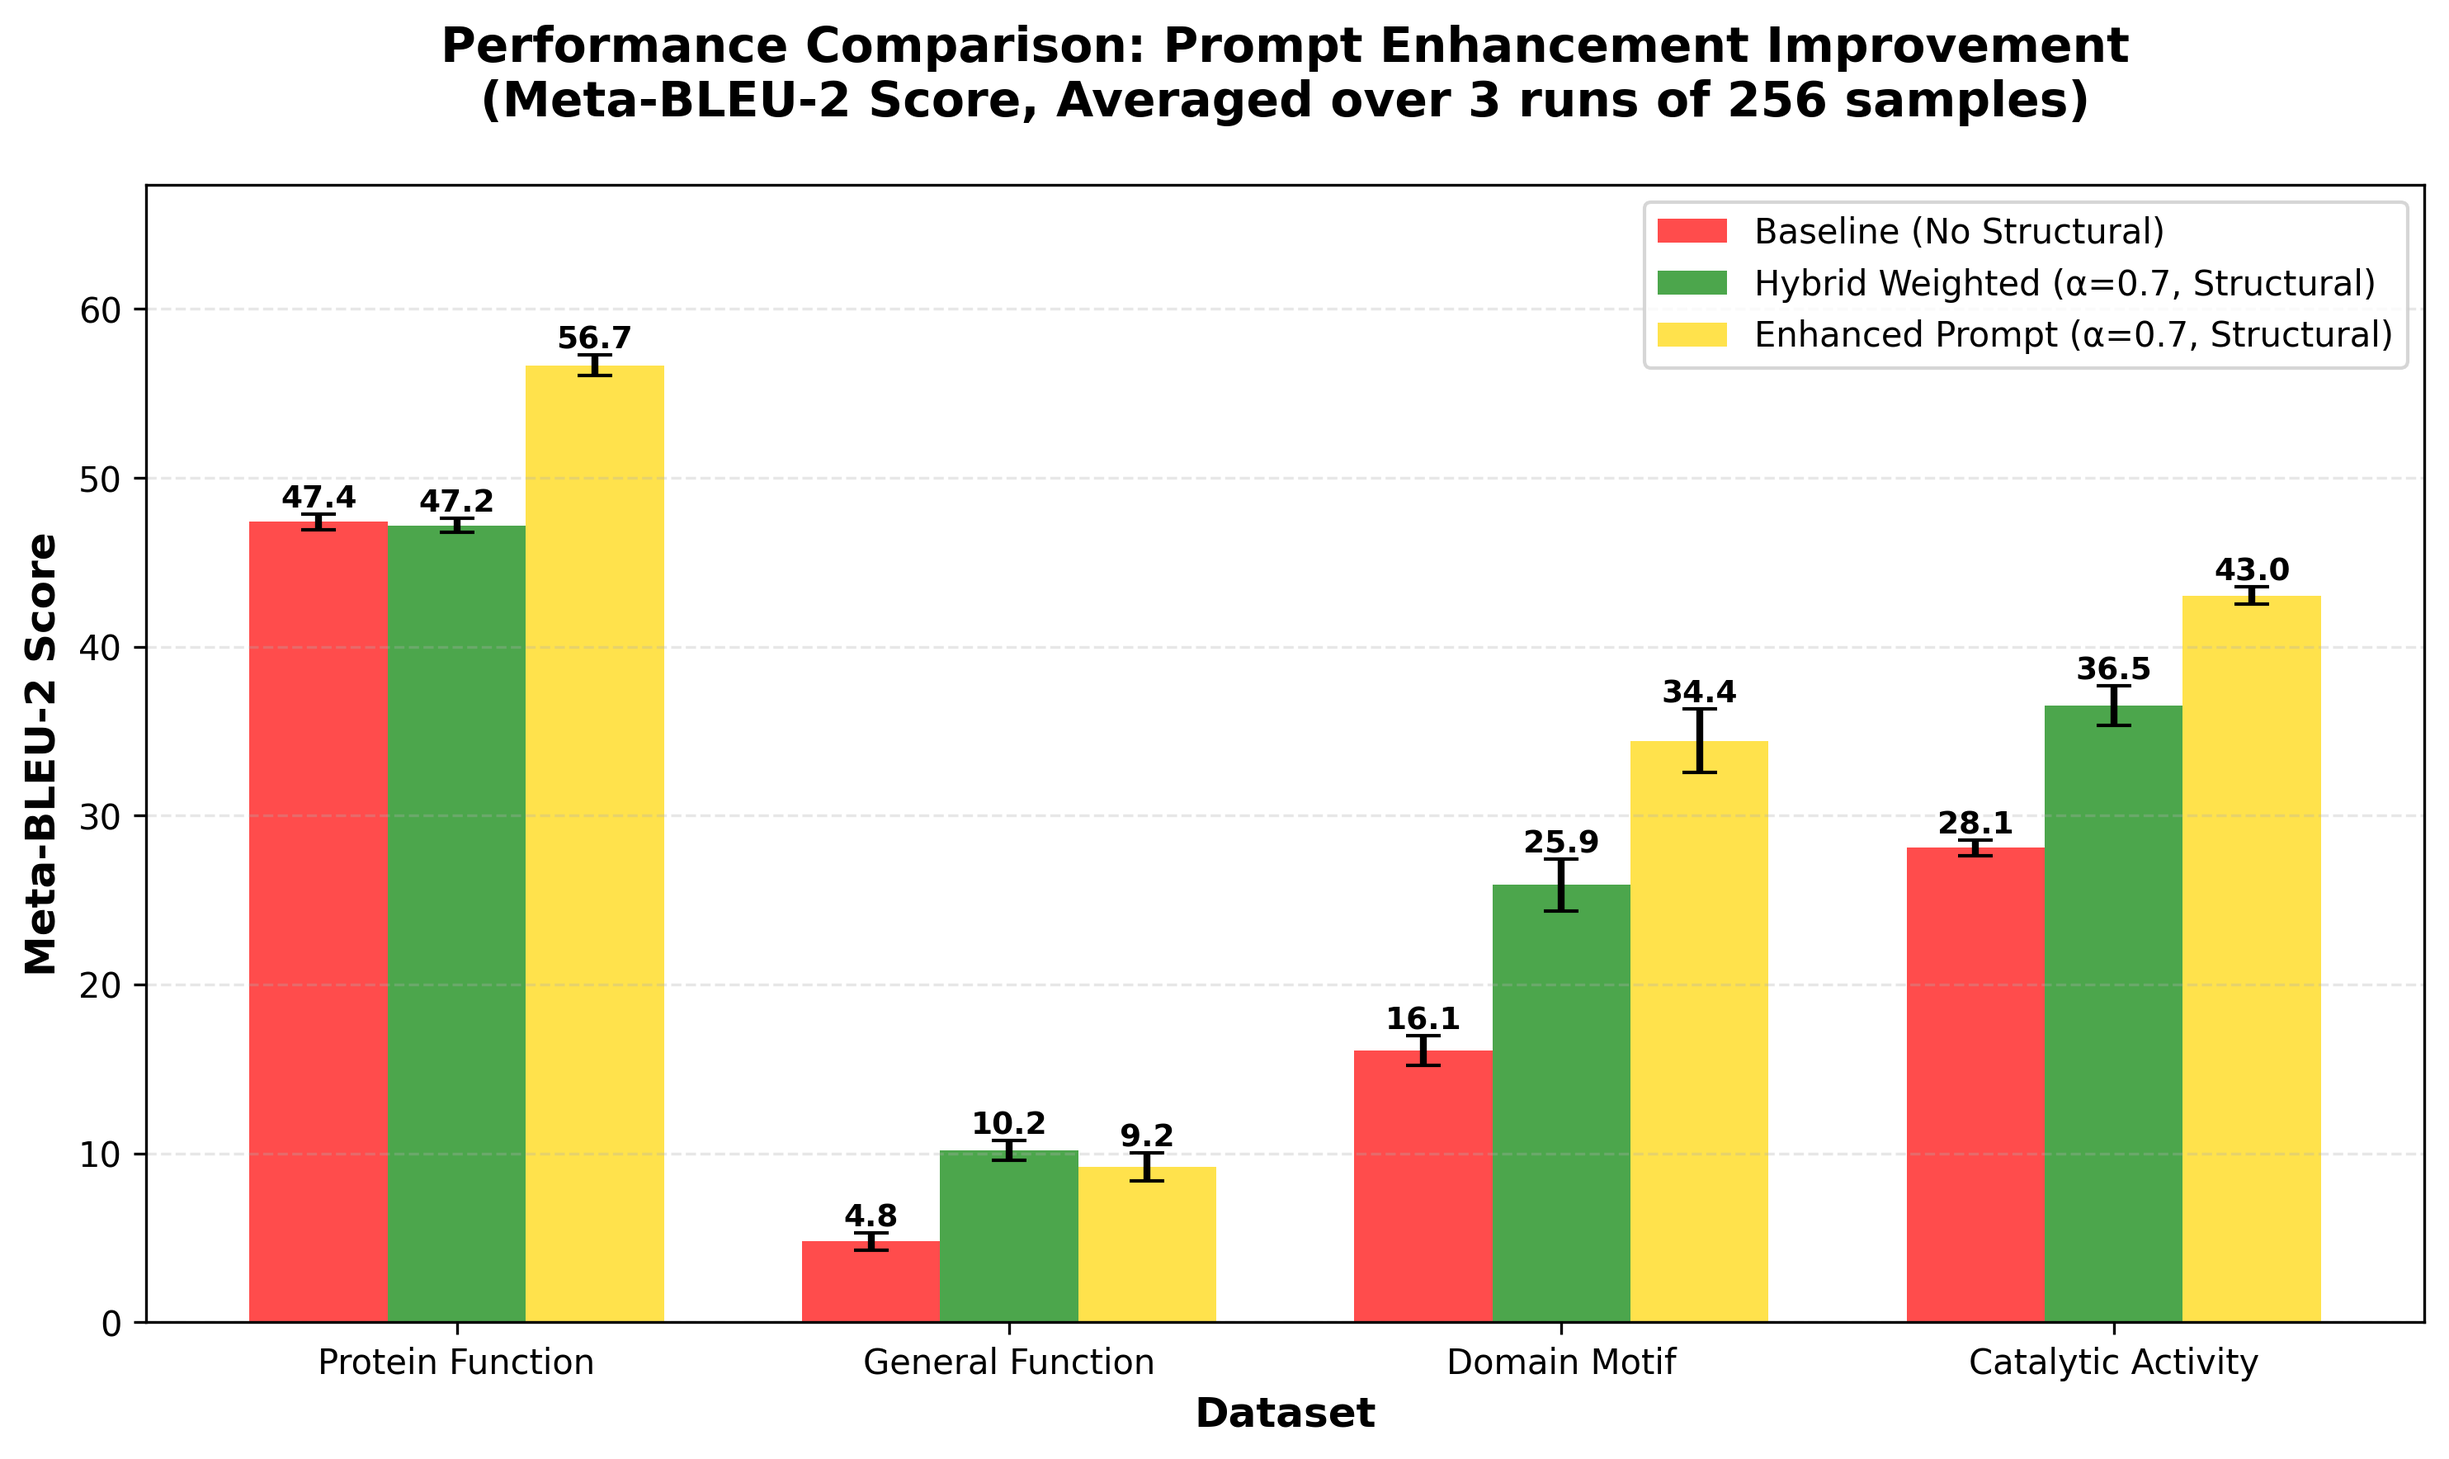
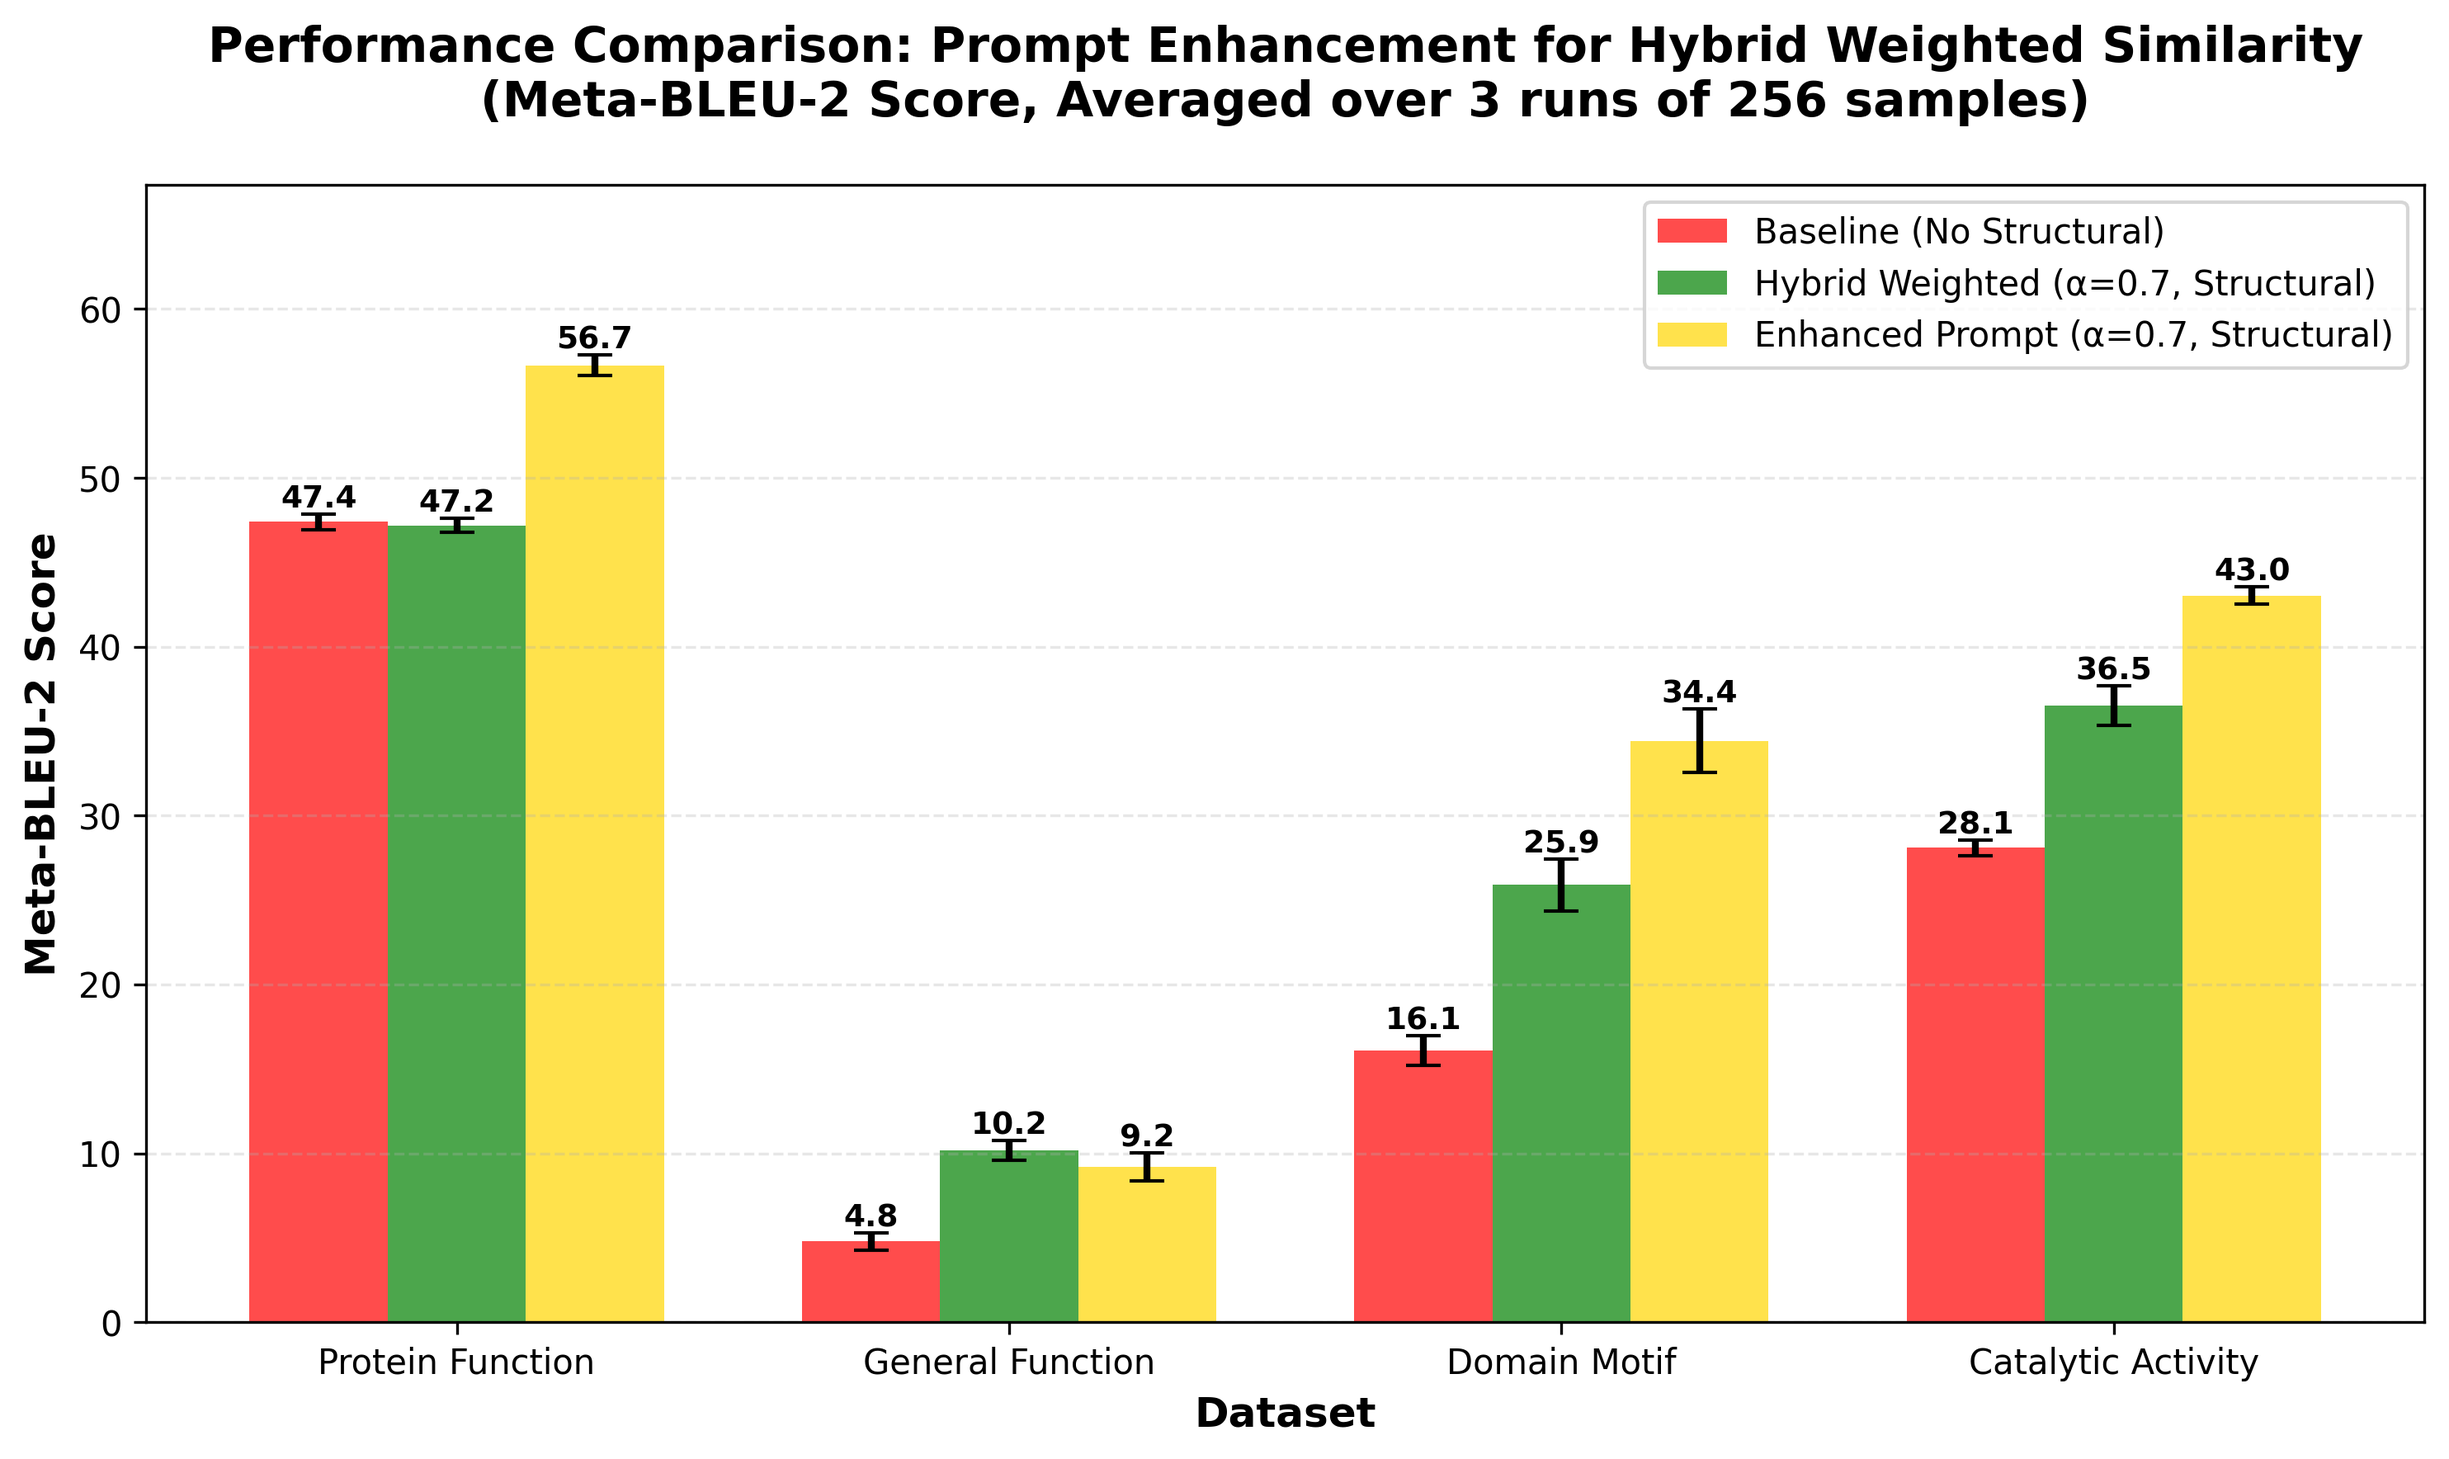
Final Commit

Changed region(s): [[0.093, 0.0, 0.9609, 0.0622]]

diff --git a/structural_retrieval/visualizations/prompt_rrf_comparison.py b/structural_retrieval/visualizations/prompt_rrf_comparison.py
@@ -6,8 +6,8 @@ domain_motif_OOD, catalytic_activity_OOD).
 
 Compares three methods:
 1. Baseline (no structural embeddings) - RED
-2. Hybrid Weighted Similarity (alpha=0.7, with structural embeddings) - GREEN
-3. Enhanced Prompt (alpha=0.7, with structural embeddings) - YELLOW
+2. Hybrid RRF (alpha=0.7, with structural embeddings) - BLUE 
+3. Enhanced RRF (alpha=0.7, with structural embeddings) - PURPLE
 
 Results are averaged over 3 independent runs of 256 samples each.
 """
@@ -120,10 +120,10 @@ def create_comparison_plot(baseline_results, hybrid_weighted_results, enhanced_p
         'catalytic_activity_OOD': 'Catalytic Activity'
     }
 
-    # Standard colors: red, green, yellow
+    # Standard colors: red, blue, purple
     color_baseline = 'red'
-    color_weighted = 'green'
-    color_enhanced = 'gold'
+    color_weighted = 'blue'
+    color_enhanced = 'purple'
 
     # Extract means and standard deviations
     baseline_means = [np.mean(baseline_results[task][metric]) for task in tasks]
@@ -144,11 +144,11 @@ def create_comparison_plot(baseline_results, hybrid_weighted_results, enhanced_p
     bars1 = ax.bar(x - width, baseline_means, width, label='Baseline (No Structural)',
                    color=color_baseline, alpha=0.7, yerr=baseline_stds,
                    capsize=5, error_kw={'linewidth': 2, 'elinewidth': 2})
-    bars2 = ax.bar(x, weighted_means, width, label='Hybrid Weighted (α=0.7, Structural)',
+    bars2 = ax.bar(x, weighted_means, width, label='Hybrid RRF (k=60, Structural)',
                    color=color_weighted, alpha=0.7, yerr=weighted_stds,
                    capsize=5, error_kw={'linewidth': 2, 'elinewidth': 2})
     bars3 = ax.bar(x + width, enhanced_means, width,
-                   label='Enhanced Prompt (α=0.7, Structural)',
+                   label='Enhanced RRF (k=60, Structural)',
                    color=color_enhanced, alpha=0.7, yerr=enhanced_stds,
                    capsize=5, error_kw={'linewidth': 2, 'elinewidth': 2})
 
@@ -167,7 +167,7 @@ def create_comparison_plot(baseline_results, hybrid_weighted_results, enhanced_p
     # Customize plot
     ax.set_xlabel('Dataset', fontsize=12, fontweight='bold')
     ax.set_ylabel(f'{metric} Score', fontsize=12, fontweight='bold')
-    ax.set_title(f'Performance Comparison: Prompt Enhancement for Hybrid Weighted Similarity\n({metric} Score, Averaged over 3 runs of 256 samples)',
+    ax.set_title(f'Performance Comparison: Prompt Enhancement Improvement for Hybrid RRF\n({metric} Score, Averaged over 3 runs of 256 samples)',
                  fontsize=14, fontweight='bold', pad=20)
     ax.set_xticks(x)
     ax.set_xticklabels([task_labels[t] for t in tasks])
@@ -203,8 +203,8 @@ def create_multi_metric_comparison(baseline_results, hybrid_weighted_results, en
 
     # Standard colors
     color_baseline = 'red'
-    color_weighted = 'green'
-    color_enhanced = 'gold'
+    color_weighted = 'blue'
+    color_enhanced = 'purple'
 
     fig, axes = plt.subplots(1, len(metrics), figsize=(16, 5))
 
@@ -227,11 +227,11 @@ def create_multi_metric_comparison(baseline_results, hybrid_weighted_results, en
         bars1 = ax.bar(x - width, baseline_means, width, label='Baseline',
                       color=color_baseline, alpha=0.7, yerr=baseline_stds,
                       capsize=4, error_kw={'linewidth': 1.5, 'elinewidth': 1.5})
-        bars2 = ax.bar(x, weighted_means, width, label='Hybrid Weighted',
+        bars2 = ax.bar(x, weighted_means, width, label='Hybrid RRF',
                       color=color_weighted, alpha=0.7, yerr=weighted_stds,
                       capsize=4, error_kw={'linewidth': 1.5, 'elinewidth': 1.5})
         bars3 = ax.bar(x + width, enhanced_means, width,
-                      label='Enhanced Prompt', color=color_enhanced, alpha=0.7,
+                      label='Enhanced RRF', color=color_enhanced, alpha=0.7,
                       yerr=enhanced_stds,
                       capsize=4, error_kw={'linewidth': 1.5, 'elinewidth': 1.5})
 
@@ -319,8 +319,8 @@ def main():
     project_root = Path(__file__).parent.parent.parent
 
     baseline_file = project_root / 'gemini_evaluation_256_results.txt'
-    hybrid_weighted_file = project_root / 'structural_retrieval/results/hybrid_weighted_sim_alpha0.70_256_rapm_results.txt'
-    enhanced_prompt_file = project_root / 'structural_retrieval/results/enhanced_prompt_alpha0.70_rapm_results.txt'
+    hybrid_weighted_file = project_root / 'structural_retrieval/results/hybrid_rrf_rapm_256_results.txt'
+    enhanced_prompt_file = project_root / 'structural_retrieval/results/enhanced_rrf_results.txt'
 
     # Parse results
     print("Parsing baseline results...")
@@ -346,21 +346,21 @@ def main():
     create_comparison_plot(
         baseline_results, hybrid_weighted_results, enhanced_prompt_results,
         metric='Meta-BLEU-2',
-        output_path=output_dir / 'prompt_meta_bleu2_comparison.png'
+        output_path=output_dir / 'prompt_rrf_meta_bleu2_comparison.png'
     )
 
     # Single metric comparison (Meta-BLEU-4)
     create_comparison_plot(
         baseline_results, hybrid_weighted_results, enhanced_prompt_results,
         metric='Meta-BLEU-4',
-        output_path=output_dir / 'prompt_meta_bleu4_comparison.png'
+        output_path=output_dir / 'prompt_rrf_meta_bleu4_comparison.png'
     )
 
     # Multi-metric comparison (Meta-BLEU-2 and Meta-BLEU-4)
     create_multi_metric_comparison(
         baseline_results, hybrid_weighted_results, enhanced_prompt_results,
         metrics=['Meta-BLEU-2', 'Meta-BLEU-4'],
-        output_path=output_dir / 'prompt_meta_bleu_comparison.png'
+        output_path=output_dir / 'prompt_rrf_meta_bleu_comparison.png'
     )
 
     # Print summary tables

diff --git a/structural_retrieval/visualizations/performance_comparison.py b/structural_retrieval/visualizations/performance_comparison.py
@@ -112,7 +112,7 @@ def compute_std_devs(results):
 
 
 def create_comparison_plot(baseline_results, hybrid_rrf_results, hybrid_weighted_results,
-                          metric='METEOR', output_path='performance_comparison.png'):
+                          metric='METEOR', output_path='../figs/performance_comparison.png'):
     """
     Create a bar plot with error bars comparing the three methods across datasets.
 
@@ -159,7 +159,7 @@ def create_comparison_plot(baseline_results, hybrid_rrf_results, hybrid_weighted
     bars1 = ax.bar(x - width, baseline_means, width, label='Baseline (No Structural)',
                    color=color_baseline, alpha=0.7, yerr=baseline_stds,
                    capsize=5, error_kw={'linewidth': 2, 'elinewidth': 2})
-    bars2 = ax.bar(x, rrf_means, width, label='Hybrid RRF (Structural)',
+    bars2 = ax.bar(x, rrf_means, width, label='Hybrid RRF (k=60, Structural)',
                    color=color_rrf, alpha=0.7, yerr=rrf_stds,
                    capsize=5, error_kw={'linewidth': 2, 'elinewidth': 2})
     bars3 = ax.bar(x + width, weighted_means, width,
@@ -202,7 +202,7 @@ def create_comparison_plot(baseline_results, hybrid_rrf_results, hybrid_weighted
 
 def create_multi_metric_comparison(baseline_results, hybrid_rrf_results, hybrid_weighted_results,
                                    metrics=['METEOR', 'BLEU-4', 'ROUGE-L'],
-                                   output_path='multi_metric_comparison.png'):
+                                   output_path='../figs/multi_metric_comparison.png'):
     """
     Create a faceted bar plot with error bars comparing multiple metrics across datasets.
     """
@@ -351,7 +351,7 @@ def main():
     hybrid_weighted_avg = compute_averages(hybrid_weighted_results)
 
     # Create output directory
-    output_dir = Path(__file__).parent
+    output_dir = Path(__file__).parent.parent / 'figs'
     output_dir.mkdir(parents=True, exist_ok=True)
 
     # Generate visualizations

diff --git a/README.md b/README.md
@@ -241,23 +241,78 @@ Score(protein_i) = α × cosine_sim_ProstT5(i) + (1-α) × cosine_sim_ESM2(i)
 
 ### 3. Enhanced Prompt Engineering
 
-**Key improvements over standard prompts:**
-- Structured instruction formatting with clear task specification
-- Contextual integration of retrieved protein annotations
-- Optimized confidence level presentation
-- Better few-shot example formatting for Gemini 2.5
+SAPER significantly extends the baseline RAPM prompt construction ($\mathcal{P} = \mathcal{Q} \oplus \mathcal{E}_{\text{few-shot}} \oplus \mathcal{R}_{1:K}$) through five key innovations:
 
-Example structure:
+#### Baseline RAPM Approach
+The original RAPM uses a generic concatenation structure:
+- System: "You are given a protein sequence and a list of related proteins..."
+- Retrieved evidence: Flat Python dict format with confidence labels (High/Medium/Low based on >90%, 60-90%, <60% similarity)
+- Training examples: Cross-task demonstrations with confidence levels
+- Output constraint: JSON format `{"description": "..."}`
+
+**Limitations:**
+- No task-specific guidance (all tasks use same prompt)
+- Flat list presentation (hard to parse visually)
+- Generic instructions (no terminology emphasis)
+- Cross-task examples (inconsistent vocabulary)
+
+#### SAPER Enhanced Approach
+
+**(1) Expert Persona Framing**
 ```
-You are given a protein sequence and a list of related proteins retrieved from a database.
-Instruction: [Task-specific instruction]
-Protein sequence: [Target sequence]
-Retrieved proteins annotations by [Method]: [Top-K similar proteins with confidence]
-Here are some example input-output pairs for this task:
-[Few-shot examples from training set]
-Based on the instruction, the protein sequence, the retrieved information, and the examples,
-output ONLY the functional description of this protein in JSON format.
+You are a protein function prediction expert with deep knowledge of biological terminology.
 ```
+Activates LLM's domain-specific knowledge vs. generic user framing.
+
+**(2) Task-Specific Guidance**
+Dynamic instructions injected per task:
+- **Catalytic Activity**: "Focus on SPECIFIC catalytic mechanisms (e.g., acid-base catalysis), identify ENZYME CLASS (e.g., serine protease), specify SUBSTRATE and COFACTOR requirements"
+- **Domain Motif**: "Identify SPECIFIC DOMAINS by name (e.g., SH3 domain, zinc finger), use InterPro/Pfam terminology"
+- **Protein Function**: "Use MOLECULAR FUNCTION terms from Gene Ontology (GO:MF), specify BIOLOGICAL PROCESSES"
+- **General Function**: "Provide BROAD FUNCTIONAL CATEGORIES, mention CELLULAR LOCATION, describe BIOLOGICAL ROLE"
+
+**(3) Confidence-Level Grouping**
+```
+🟢 **High Confidence Matches (score ≥ 0.9)**:
+  • Catalyzes the reversible phosphorylation of ATP and creatine
+  • Belongs to the phosphagen kinase family
+
+🟡 **Medium Confidence Matches (0.7 ≤ score < 0.9)**:
+  • Contains conserved phosphagen kinase domain
+
+🔴 **Lower Confidence Matches (score < 0.7)**:
+  • May be involved in cellular energy homeostasis
+```
+Visual stratification with emoji indicators (🟢🟡🔴) replaces flat dict format.
+
+**(4) Explicit Terminology Directives**
+```
+**IMPORTANT INSTRUCTIONS**:
+1. **Use PRECISE biological terminology** from the retrieved annotations
+2. **Prioritize high-confidence matches** - they are most similar
+3. **Extract domain-specific terms** (enzyme names, GO terms, motifs, etc.)
+4. **Avoid generic descriptions** - be specific
+5. **Match the terminology style** of the training examples
+```
+Direct guidance for entity extraction (critical for Meta-BLEU).
+
+**(5) In-Task Example Selection**
+```
+**In-Task Training Examples** (for format reference):
+  • Catalyzes the transfer of phosphate from phosphocreatine to ADP
+  • ATP-dependent kinase activity with creatine substrate specificity
+```
+Task-specific top-3 examples ensure vocabulary consistency with ground truth.
+
+#### Impact on Meta-BLEU
+
+These enhancements improve Meta-BLEU by:
+1. **Task guidance** → Increases terminology precision (aligns with evaluation vocabulary)
+2. **Confidence grouping** → Prioritizes high-quality structural matches
+3. **Terminology directives** → Promotes entity extraction and copying from high-confidence matches
+4. **In-task examples** → Ensures terminology style matches ground truth
+
+**Results**: +6 to +9 Meta-BLEU-2 points on top of structural retrieval improvements (see detailed comparison in `report/comparison.md`).
 
 ### 4. Evaluation Metrics
 
@@ -480,6 +535,17 @@ where `p_n` are n-gram precisions computed on extracted entities.
 ---
 
 ## Detailed Analysis
+
+### Comprehensive Prompt Engineering Comparison
+
+For a detailed side-by-side comparison of baseline RAPM vs. SAPER's enhanced prompting approach, including:
+- Full prompt structure examples
+- Line-by-line code comparisons
+- Task-specific guidance for all 4 tasks
+- Impact analysis on Meta-BLEU scores
+- Ablation study of each component
+
+See the comprehensive analysis in **[report/comparison.md](report/comparison.md)**.
 
 ### Why ProstT5 Improves Performance
 
